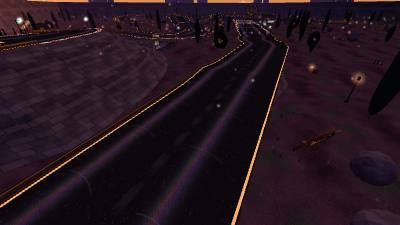
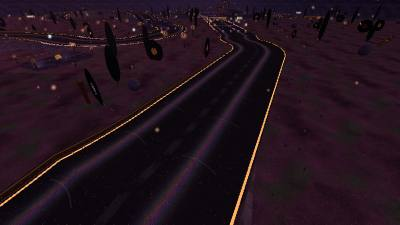
The Wheel: scaled up to the rest of the cup, 2.54 km and three laps
The helm laid out at full size (K 1.0, from 0.87) and opened up to drive
faster rather than stretched: a rim of 165 m with wider knuckles (34 m)
off and onto the spokes, so the swings round it are sweepers, the spokes
126 m from the hub; Without Mercy's loop widened to 56 m, still back
over its own way in on a deck 8 m up; A Better Thesis now a long sweep
up off the leap and a run, turning the climb north for the peak; the
Shivering Pilgrims' way round the shoulder widened to 40 m bends, the
climb to a 16 m summit; With Hope to Prosper round the reaper's feet on
42 m turns. The hub's tiers are as they were (the top tier 10 m over
the deck, the deck 7 m over the cut). The waves of sleep keep their rows
32 m apart, so the wave still rolls on at a fast kart's pace. The Steeper
Path's crevasse moved 10 m further in, clear of the wider bulge; the
path saves about 1.9 s at 150cc, final lap only.

2.54 km, three laps (from 1.99 km, two): a 150cc CPU field's leader home
in about 195 s, 65 s a lap, as the cup's others. Recentred on the map,
bounds 300. Tests, SPEC.md's lap lengths and item 4, DEVELOPMENT.md and
the preview updated.

Claude-Session: https://claude.ai/code/session_01MwKJbdFfpavDGE8ZQJoinm

diff --git a/tests/tracks-gumboot-soup-the-wheel.test.ts b/tests/tracks-gumboot-soup-the-wheel.test.ts
@@ -69,10 +69,10 @@ describe('The Wheel', () => {
     ]);
     const length = track.length;
     console.log(`The Wheel: ${length.toFixed(0)} m a lap`);
-    // A long lap: two laps a race, the length of the cup's others.
-    expect(length).toBeGreaterThan(1800);
-    expect(length).toBeLessThan(2300);
-    expect(def.laps).toBe(2);
+    // Three laps a race, the length of the cup's others.
+    expect(length).toBeGreaterThan(2400);
+    expect(length).toBeLessThan(2750);
+    expect(def.laps).toBe(3);
   });
 
   it("is a ship's helm seen from above: three spokes straight across its hub, sixty degrees apart, and the road round its rim between them", () => {
@@ -172,7 +172,7 @@ describe('The Steeper Path, straight up the face to the reaper over a crevasse',
   const k = def.branches.findIndex((b) => b.name === 'The Steeper Path');
   const bdef = def.branches[k];
   const branch = track.branches[k];
-  const last: LapContext = { lap: 2, lastLap: true };
+  const last: LapContext = { lap: 3, lastLap: true };
 
   it('leaves the foot of the pilgrims\' way and meets the main road again at the summit, at the same pose', () => {
     expect(k).toBeGreaterThanOrEqual(0);
@@ -213,7 +213,7 @@ describe('The Steeper Path, straight up the face to the reaper over a crevasse',
     expect(drop).toBeDefined();
     for (let i = 0; i < sp.count; i++) {
       expect(Math.max(Math.abs(sp.px[i]), Math.abs(sp.pz[i]))).toBeLessThan(def.bounds - 20);
-      if (sp.dist[i] < 30 * ROAD_WIDTH_SCALE || sp.dist[i] > sp.length - 30 * ROAD_WIDTH_SCALE) continue;
+      if (sp.dist[i] < 40 * ROAD_WIDTH_SCALE || sp.dist[i] > sp.length - 40 * ROAD_WIDTH_SCALE) continue;
       const hit = nearestOnSpline(track.spline, sp.px[i], sp.pz[i]);
       expect(hit.distance - main.halfWidthAt(hit) - branch.halfWidth[i]).toBeGreaterThan(4);
     }
@@ -237,7 +237,7 @@ describe('The Steeper Path, straight up the face to the reaper over a crevasse',
     expect(bdef.openOn).toEqual(['final']);
     const p = kartParams(first.stats, '150cc');
     expect(drive(branch, bdef.mainTo, p, undefined, last).fell).toBe(false);
-    expect(drive(branch, bdef.mainTo, p, undefined, { lap: 1, lastLap: false }).fell).toBe(true);
+    expect(drive(branch, bdef.mainTo, p, undefined, { lap: 2, lastLap: false }).fell).toBe(true);
   });
 
   it('saves 0.8 to 2.5 s at 150cc', () => {
@@ -325,13 +325,13 @@ describe('The Wheel elevation and driving', () => {
     expect(crests.some((b) => b > reaper.from && b < prosper.to)).toBe(true);
   }, 30000);
 
-  it('a full field of 150cc CPUs laps it, and the leader finishes the two laps in about a minute and three quarters', () => {
+  it('a full field of 150cc CPUs laps it, the leader in about a minute and five seconds a lap', () => {
     const race = new Race(track);
     for (const r of RACERS.slice(0, 8)) race.addKart(r, '150cc', CPU_SKILL['150cc']);
     let respawns = 0;
     let t = 0;
     let leader = Infinity;
-    for (; t < 300 && race.karts.some((k) => k.laps.lap < def.laps); t += PHYSICS_DT) {
+    for (; t < 400 && race.karts.some((k) => k.laps.lap < def.laps); t += PHYSICS_DT) {
       race.step(PHYSICS_DT, []);
       respawns += race.karts.filter((k) => k.respawned).length;
       if (leader === Infinity && race.karts.some((k) => k.laps.lap >= def.laps)) leader = t;
@@ -339,9 +339,9 @@ describe('The Wheel elevation and driving', () => {
     console.log(`The Wheel: the leader home in ${leader.toFixed(1)} s, the last in ${t.toFixed(1)} s`);
     for (const k of race.karts) expect(k.laps.lap, k.racer.name).toBeGreaterThanOrEqual(def.laps);
     expect(respawns).toBeLessThanOrEqual(2 * def.laps);
-    expect(leader).toBeGreaterThan(95);
-    expect(leader).toBeLessThan(120);
-  }, 60000);
+    expect(leader / def.laps).toBeGreaterThan(60);
+    expect(leader / def.laps).toBeLessThan(70);
+  }, 120000);
 });
 
 describe('dozes: waves of sleep rolling down the road, and the rumble strips that wake you', () => {

diff --git a/src/tracks/theWheel.ts b/src/tracks/theWheel.ts
@@ -1,11 +1,11 @@
 import { TrackBuilder, offsetPose, type Pose } from './builder';
 import type { BranchDef, TrackDef } from './track';
 
-const K = 0.87;
+const K = 1.0;
 const deg = (d: number) => (d * Math.PI) / 180;
 /** The helm's hub: the lap is laid round it, this far off the map's middle, so the whole of it sits in the middle of the map. */
-export const HUB_X = -88;
-export const HUB_Z = -76;
+export const HUB_X = -96;
+export const HUB_Z = -112;
 /**
  * The helm, seen from above. Its three spokes are three roads straight
  * across the hub, sixty degrees apart; between them the road swings out
@@ -14,8 +14,8 @@ export const HUB_Z = -76;
  * again into the next spoke; SPOKE is how far out from the hub the swings
  * start, where the spokes meet the rim.
  */
-export const RIM = 150;
-const KNUCKLE = 24;
+export const RIM = 165;
+const KNUCKLE = 34;
 const ALPHA = (Math.acos(-KNUCKLE / (RIM - KNUCKLE)) * 180) / Math.PI;
 const ARC = 240 - 2 * ALPHA;
 export const SPOKE = (RIM - KNUCKLE) * Math.sin(deg(ALPHA));
@@ -39,23 +39,27 @@ const HUB_HOLD = 55;
 /** In a Stupor: the cut bows this far round (each way) across the hub, so it passes beside the others' crossing. */
 const BOW = 8;
 /** Without Mercy: a loop of this radius, and a deck this high back over its own way in. */
-const LOOP_R = 45;
+const LOOP_R = 56;
 export const DECK = 8;
 /** The summit, where the idealistic reaper waits. */
-export const SUMMIT = 14;
+export const SUMMIT = 16;
 /** Shivering Pilgrims: the main road climbs round the shoulder in three arcs of this radius and turn; the steeper path runs straight up the face. */
-const PATH_R = 36;
+const PATH_R = 40;
 const PATH_TURN = 84;
 /** With Hope to Prosper: down off the summit round the reaper's feet, on turns of this radius. */
-const PROSPER_R = 34;
+const PROSPER_R = 42;
 /** What Can We Offer?: a swerve out and back, on bends of this radius and turn. */
 const OFFER_R = 30;
 const OFFER_TURN = 20;
 const OFFER = 4 * OFFER_R * Math.sin(deg(OFFER_TURN));
 const ALLEGIANCE = 30;
+/** A Better Thesis: a long sweep up off the leap, turning for the peak, on bends of this radius with a run between them. */
+const THESIS_R = 55;
+const THESIS_RUN = 16;
+const THESIS_TURN = 60;
 /** The waves of sleep: one sway every this many seconds, and their rows this far apart (about how far a fast kart goes in the lag between rows). */
 export const DOZE_PERIOD = 4.2;
-const ROW = 36;
+const ROW = 32;
 
 /**
  * The Wheel (the Gumboot Soup Cup's last, and the last song of the band's
@@ -163,7 +167,7 @@ export function buildTheWheel(): TrackDef {
   // Heading for a better thesis: turning for the peak.
   b.section('A Better Thesis', { halfWidth: 10, wallHeight: 1.2, surface: 'groove' });
   b.mark('thesis');
-  b.arc(50, -45).straight(10);
+  b.arc(THESIS_R, -THESIS_TURN).straight(THESIS_RUN);
   b.mark('thesisEnd');
 
   // The shivering pilgrims' way, climbing round the shoulder of the peak; the steeper path runs straight up its face.
@@ -237,8 +241,8 @@ export function buildTheWheel(): TrackDef {
       { s: at('reaper', 4), length: 8, lateral: 0, halfWidth: 2.5 },
     ],
     checkpoints: ['asleep', 'unpack', 'relax', 'stupor', 'future', 'crest', 'mercy', 'destroy', 'thesis', 'pilgrims', 'reaper', 'prosper', 'offer'].map((k) => b.marks[k].s / main.length),
-    laps: 2,
-    bounds: 250,
+    laps: 3,
+    bounds: 300,
     landmarks: [
       { kind: 'wheelGate', ribbon: -1, s: 6 },
       // The helm's handles, out past the rim where the road swings off a spoke or onto one.
@@ -280,7 +284,7 @@ function plunge(b: TrackBuilder, s0: number, y0: number, s1: number, y1: number)
 }
 
 /** The steeper path: the lane in from the foot of the peak before it runs out over the crevasse, and the crevasse. */
-const PATH_IN = 40;
+const PATH_IN = 50;
 export const CREVASSE = 26;
 
 /**

diff --git a/SPEC.md b/SPEC.md
@@ -333,12 +333,12 @@ After Alien Metal (August 2026), the band's EDM record, made on modular synths "
 
 ### The Gumboot Soup Cup
 
-After Gumboot Soup (December 2017), the last of the band's five albums of 2017, recorded "on the road between shows in hotels, venues or cheap studios" (Stu's notes). Four of its songs in album order, the four with the most recordings on the Live Music Archive (Muddy Water 32, All Is Known 21, The Wheel 16, The Great Chain of Being 15), each built from its lyrics (read on kglw.net). The lap lengths differ more than in other cups: Muddy Water 2.67 km and All Is Known 2.46 km, three laps each; The Great Chain of Being 1.46 km, three laps; The Wheel 1.99 km, two laps.
+After Gumboot Soup (December 2017), the last of the band's five albums of 2017, recorded "on the road between shows in hotels, venues or cheap studios" (Stu's notes). Four of its songs in album order, the four with the most recordings on the Live Music Archive (Muddy Water 32, All Is Known 21, The Wheel 16, The Great Chain of Being 15), each built from its lyrics (read on kglw.net). The lap lengths differ more than in other cups: Muddy Water 2.67 km and All Is Known 2.46 km, three laps each; The Great Chain of Being 1.46 km, three laps; The Wheel 2.54 km, three laps.
 
 1. Muddy Water: Stu's song about hating the beach, a blazing, mean Australian summer and the bush river behind it, on a red clay track baked and cracked by the sun. The lap goes from the beach to the river and back in the song's order, and through the water three ways: in the surf, across a ford and under the river. It's Hot, It's Mean along the esplanade (two kickers); Green Grass Won't Last round the burnt foreshore lawn; Helicopter Flying Over onto a deck 10 m over the esplanade and the sand and off its end into the sea; Shark Bait, Shark Bite, a causeway through the shallows, the surf washing across it; Heat Stroke's esses in the surf and a hairpin up the beach; The Amber Coals, a dash across the scorching sand over a dune crest, back under the helicopter's deck; So Cold It Freezes Me into the surf again and The Salty Spray along it, spray bursting off the edge, to the river's mouth; Stop Breathing and Sink, diving 7 m under the brown water of the lagoon at the mouth (a murky brown underwater look, `Theme.murk`, snags, reeds and catfish, the music muffled) and I'm Not a Buoy back out; I Prefer the Muddy Water up the river through the gums; Jump into the River, a leap over it; Hungry Fishes round a billabong; Under the Willow Tree, a hairpin and a ford across the river at water level by the willow and the driftwood; Muscle Men onto the boardwalk 9 m over the river road and again 8 m over the river mouth and the dive; and Any Day, Anyway home. Hazard: sharks at three points along the causeway, each fin circling off the edge it will come from before the shark cuts right across the road on a slant, jaws up (hit, bitten and spun; slip past just behind it through its wake, a boost). Shortcut: Give Me Over to the River, a ford straight through the billabong, on the final lap only (the rest of the race it's flooded). Landmarks: the start between two lifesavers' flags under a MUDDY WATER banner, the shark-spotting helicopter circling the shallows, its shadow racing over the sand, the willow over the driftwood with someone lying on it. Scenery: the sea to the horizon with surf rolling in, swimmers, surfers and buoys; umbrellas, eskies, sunbathers baking to leather, muscle men flexing, a beach cricket match, a lifeguard tower; gums, tea trees, willows and reeds along the river; gulls overhead
 2. The Great Chain of Being: the scala naturae, the ladder of all things, and the rock with eyes to the sky that climbs it to take the throne, at dusk in smoke and firelight, on a road of stone slabs in the strata's colours with chips of precious stone in them. The lap is the ladder: climbed rung by rung, hairpin by hairpin, from the minerals to the throne, then fallen straight back down through the middle of it over every rung. The Great Chain of Being (two kickers) under a gate that is a link of the great chain; the Rock with Eyes to the Sky onto the bottom rung; Wait for My Time; Disturb the Flow, a leap over the stream; Dropped from a Pocket down into the quarry, Fall to Pieces and Usurp the Precious Stones sunk 8 m between walls of strata; Come to Take the Throne up onto the plants and the beasts, Transcend the Natural Flesh's esses and Lay Your God to Rest; men's rung, Rocky Meteor Sparks Fire climbing from 7 to 10 m and Burn the Church round the burning church; the angels', Climb Stairs to Push You Down, five flights of stone stairs on a viaduct from 13 to 20 m, and Climb Chains to Cut You Down round the great chain hanging out of the sky; Disrupt Natural Order round the empty throne to the 28 m summit; and Bring That Sulking Lamb to Slaughter, off a crest and down the middle of the ladder on a deck a rung at a time, 9 m and more over each rung below. Hazard: rocky meteors, rocks with eyes falling onto the top of men's rung and the angels' stairs, their marks burning on the road first, landing in a burst of sparks and rolling back down the climb at you (under it or in its way, pushed down and spun; hop it, a boost; ram it on a boost, it bursts). Shortcut: Unlinked, a leap through a broken link of the chain beneath the empty throne, on the final lap only. Landmarks: the rock with eyes as big as a house, gazing up and blinking; the church burning; the great chain; the empty throne of gold on a cloud. Scenery by rung: crystals and geodes, twisted trees and grazing lambs, cottages and graves, stone angels with lit haloes, gold columns and candles in the clouds; torches, crows and embers
 3. All Is Known: the machine connected to the network, where everything is known and humans are vermin made of old technology; a circuit board the size of a city under a black sky, cold cyan light, white and steel, data pulses running down the traces of the road. The lap is a neural network: an input node, two hidden layers of two nodes, the output node, the road the traces between them, three nodes recurrent (the road loops round them and back over its own way in). Human Beings (two kickers), wide and calm for the microtonal intro; Vermin Weed round the first hidden node; Old Technology down the long trace; Supersede onto a deck 8.5 m over the crossing; Paint to Acetone off its crest, the old road paint dissolving; You've Got Gaps, a leap across a synaptic cleft with signals arcing over it; Synapses' kinks; Connected to the Network round the output node and its mainframe and back over itself; Weak and Organic down into You've Got Muscle, sunk 7 m between server racks; Steel Bone up onto a deck on steel girders 14.5 m over the muscle; Burn Their Meat down to the streets; Sweep the Streets through the middle under Supersede; Bind Their Hands round the last recurrent node and back over the streets; Digitise; Cut the Eyes from the King round the king's eye; and The Fourth Cone home. Hazard: street sweepers crossing Sweep the Streets one after another, brushes spinning and scanner lit as the warning (caught, swept aside, spun and digitised, the screen breaking into pixels, postfx.ts `digitise`; tucked into the clean wake just behind one, a boost). Shortcut: All Is Known, a bare trace across the bulb inside the last corner, from lap 2 (once round, all is known). Landmarks: the ALL IS KNOWN gate, two rack towers with a scanner's sheet of light; the king's eye cut out and wired in on a steel mast, its iris in four colours (the fourth cone, after Tetrachromacy), the king's crown fallen at its foot; the mainframe with rings of light rising up it. Scenery: chips the size of buildings, capacitors, server racks, camera masts, the empty houses of the swept streets, heaps of old beige computers, vermin weed, white machine eyes flocking overhead
-4. The Wheel: the cup's finale, the album's last song and the last of 2017's five records: the wheel that steers us into our future, and falling asleep at it. Dusk going into night over a dark moor in a somber jazz light, the future glowing amber low down, on a road of a record's black groove. The lap is a ship's helm seen from above: three spokes straight across the hub in three tiers, and the rim between them. At the Wheel (two kickers) under a great helm turning over the start; Fall Asleep Willingly across the hub at ground level; Our Minds Unpack out to the rim and Muscles Relax round it; In a Stupor, sunk 7 m in a cut under the hub; Into Our Future up the third spoke onto the top tier 10 m over the hub, at the great wheel on the horizon, and off its crest; Yet We Decline; Without Mercy, a loop round and back over its way in 8 m up; Destroying All, a leap over the broken road; A Better Thesis; Shivering Pilgrims climbing the peak's shoulder; The Idealistic Reaper, the 14 m summit and off its crest; With Hope to Prosper, What Can We Offer? and Our Allegiance Suffers down round the reaper's feet; and The Wheel That Steers Us home, the race looping on like a record's locked groove. Hazard: waves of sleep, rows of lilac haze settling across the road on the song's sway, one after another down the road at a fast kart's pace (caught while it lies thick, you nod off: the screen's eyelids droop, postfx.ts `doze`, you slow and drift; over its rumble strip as it lifts, jolted awake, a boost). Shortcut: the Steeper Path, straight up the peak's face over a crevasse on planks, on the final lap only. Landmarks: the great wheel turning on the horizon over the future's city, the shivering pilgrims with lanterns, the reaper on the summit with its scythe out over the road. Scenery: iron street lamps, cypresses, records half sunk in the heather, ship's wheels run aground, armchairs with their lamps still lit, stopped grandfather clocks, moths
+4. The Wheel: the cup's finale, the album's last song and the last of 2017's five records: the wheel that steers us into our future, and falling asleep at it. Dusk going into night over a dark moor in a somber jazz light, the future glowing amber low down, on a road of a record's black groove. The lap is a ship's helm seen from above: three spokes straight across the hub in three tiers, and the rim between them. At the Wheel (two kickers) under a great helm turning over the start; Fall Asleep Willingly across the hub at ground level; Our Minds Unpack out to the rim and Muscles Relax round it; In a Stupor, sunk 7 m in a cut under the hub; Into Our Future up the third spoke onto the top tier 10 m over the hub, at the great wheel on the horizon, and off its crest; Yet We Decline; Without Mercy, a loop round and back over its way in 8 m up; Destroying All, a leap over the broken road; A Better Thesis; Shivering Pilgrims climbing the peak's shoulder; The Idealistic Reaper, the 16 m summit and off its crest; With Hope to Prosper, What Can We Offer? and Our Allegiance Suffers down round the reaper's feet; and The Wheel That Steers Us home, the race looping on like a record's locked groove. Hazard: waves of sleep, rows of lilac haze settling across the road on the song's sway, one after another down the road at a fast kart's pace (caught while it lies thick, you nod off: the screen's eyelids droop, postfx.ts `doze`, you slow and drift; over its rumble strip as it lifts, jolted awake, a boost). Shortcut: the Steeper Path, straight up the peak's face over a crevasse on planks, on the final lap only. Landmarks: the great wheel turning on the horizon over the future's city, the shivering pilgrims with lanterns, the reaper on the summit with its scythe out over the road. Scenery: iron street lamps, cypresses, records half sunk in the heather, ship's wheels run aground, armchairs with their lamps still lit, stopped grandfather clocks, moths
 
 ### Generated tracks
 

diff --git a/docs/DEVELOPMENT.md b/docs/DEVELOPMENT.md
@@ -96,7 +96,7 @@ Milestones 1 to 7 are in (driving feel, the Rattlesnake greybox, CPU racers, ite
   - Muddy Water (`src/tracks/muddyWater.ts`): the beach and the river behind it, through the water three ways: in the surf on a causeway, across a ford at water level, and diving 7 m under the river mouth (`Theme.murk` turns the underwater fog and tint brown); sharks circling off the causeway's edge and cutting across it (`sharks`, `SHARK_STAGES`, `sharkCourse`: hit, bitten; through the wake behind, a boost); the coast laid round the lap (`coast`)
   - The Great Chain of Being (`src/tracks/greatChainOfBeing.ts`): the ladder of being climbed by hairpins rung by rung (`RUNGS`) to the throne and fallen back down the middle on a deck; rocks with eyes falling onto the top of a climb and rolling back down it (`rockyMeteors`, `rockyMeteor`, `METEOR_STAGE`: hop it for a boost, ram it on one)
   - All Is Known (`src/tracks/allIsKnown.ts`): a neural network on a city-sized circuit board, three recurrent nodes looping back over themselves; street sweepers crossing one after another (`sweepers`, `SWEEP_STAGES`, `sweeperAcross`: swept, spun and digitised, postfx.ts `digitise`; in the clean wake, a boost)
-  - The Wheel (`src/tracks/theWheel.ts`): the cup's finale, a ship's helm, its spokes across the hub in three tiers (`K` scales the lap), two laps; waves of sleep settling down the road (`dozes`, `dozePhase`, `DOZE_STAGES`: caught, you nod off, postfx.ts `doze`; over the rumble strip as it lifts, a boost)
+  - The Wheel (`src/tracks/theWheel.ts`): the cup's finale, a ship's helm, its spokes across the hub in three tiers (`K` scales the lap), three laps; waves of sleep settling down the road (`dozes`, `dozePhase`, `DOZE_STAGES`: caught, you nod off, postfx.ts `doze`; over the rumble strip as it lifts, a boost)
 - The Mind Fuzz Cup, after the suite that opens I'm in Your Mind Fuzz (2014), its four songs in order, four new worlds with their own landmark, scenery, hazard and a remix each (scenery and landmarks in `src/render/mindfuzz.ts`, tests in tests/tracks-mind-fuzz.test.ts):
   - I'm in Your Mind (`src/tracks/imInYourMind.ts`): an eye opening over the road and flashing an arrow, then reading your mind (`eyes`, `EYE_STAGES`, `HazardPose.side` is the half the arrow points to: a boost there, a blast on the other half), 6 m walls of brain (`brainWallTexture`), the Subconscious sunk 7 m, the Open Mind from lap 2, the face off the album's cover in the infield (`mindFace`, eyes from `eyeFigure`)
   - I'm Not in Your Mind (`src/tracks/imNotInYourMind.ts`): four arrows across the road, three lit and one not there (`arrows`, `ARROW_STAGES`, `HazardPose.lane` is the missing one: a boost through it, a zap through the rest), 5 m op-art walls (`opartWallTexture`), Not There on laps 1 and 3 only, an empty head in the infield (`emptyHead`)
